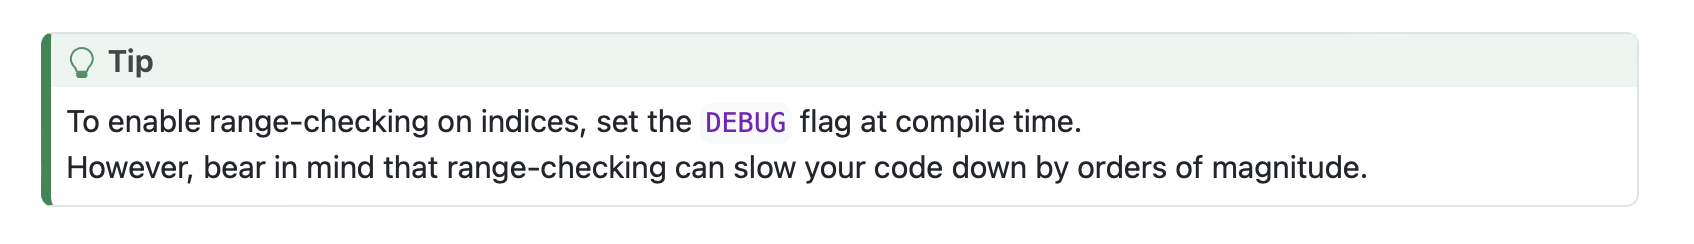
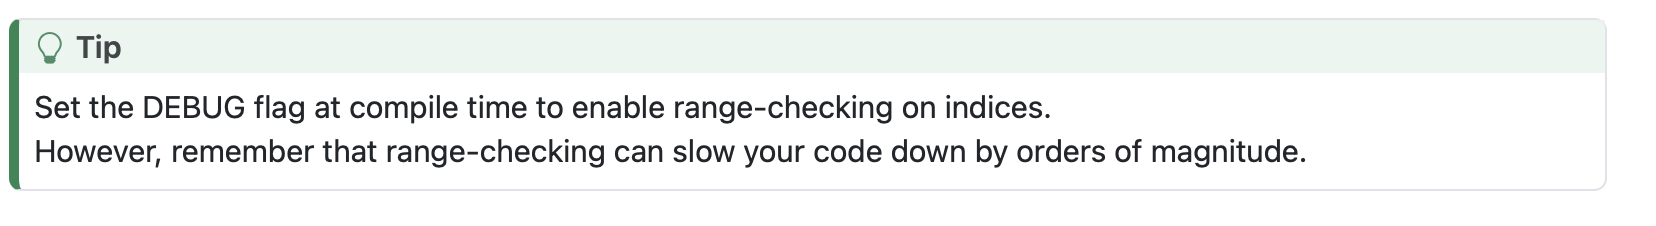
cleaned up the README a bit

Changed region(s): [[0.0, 0.0619, 0.9547, 0.8673]]

diff --git a/README.md b/README.md
@@ -1,24 +1,11 @@
 # Quarto Extension `admonitions`
 
-The `admonitions` filter adds AsciiDoc-style paragraph [admonitions][] to [Quarto][].
+The `admonitions` filter adds simple AsciiDoc-style paragraph [admonitions][] to [Quarto][].
 
-## Installing
+TIP: Set the DEBUG flag at compile time to enable range-checking on indices. \
+       However, remember that range-checking can slow your code down by orders of magnitude.
 
-```bash
-quarto add nessan/admonitions
-```
-
-This will install the extension under the `_extensions` subdirectory.
-You should check in this directory if you're using version control.
-
-Once it is installed, you add the extension as a filter in your `_quarto.yml` file as usual:
-
-```yml
-filters:
-    - admonitions
-```
-
-## Using
+Using
 
 Use the extension to draw attention to a paragraph. Start the first line of the paragraph with one of the following  five labels:
 
@@ -33,26 +20,26 @@ The label must be in uppercase and followed by a colon ( : ).
 For example:
 
 ```markdown
-TIP: To enable range-checking on indices, set the `DEBUG` flag at compile time. \
-     However, bear in mind that range-checking can slow your code down by orders of magnitude.
+TIP: Set the DEBUG flag at compile time to enable range-checking on indices. \
+     However, remember that range-checking can slow your code down by orders of magnitude.
 ```
 
 This will be rendered as:
 
 ![README-tip](assets/README-tip.png)
 
-Each admonition type has its particular icon and the admonition content on the right can contain arbitrary markdown.
+Each admonition type has its particular icon, and the admonition content on the right can contain arbitrary markdown.
 
 ## Admonitions vs. Callouts
 
-Quarto already has [callout blocks][] which are a very similar concept though with a wordier syntax.
+Quarto already has [callout blocks][], which are a very similar concept, though with a wordier syntax.
 
 For example:
 
 ```markdown
 ::: {.callout-tip}
-To enable range-checking on indices, set the `DEBUG` flag at compile time. \
-However, bear in mind that range-checking can slow your code down by orders of magnitude.
+TIP: Set the DEBUG flag at compile time to enable range-checking on indices. \
+     However, remember that range-checking can slow your code down by orders of magnitude.
 :::
 ```
 
@@ -60,9 +47,25 @@ This will be rendered as:
 
 ![README-callout](assets/README-callout.png)
 
-The markup for an admonition is very simple and clean without the need to resort to a custom div.
+The markup for an admonition is simple and clean without resorting to a custom `div`.
 
 Of course, you can mix and match both styles without a problem.
+
+## Installing
+
+The command
+
+```bash
+quarto add nessan/admonitions
+```
+
+installs the extension under the `extensions` subdirectory, which should be checked in if you use version control.
+Once it is installed, you add the extension as a filter in your `_quarto.yml` file as usual:
+
+```yml
+filters:
+    - admonitions
+```
 
 ## Examples
 
@@ -70,13 +73,13 @@ See the `examples` directory for demonstration projects using this extension.
 
 ## Acknowledgements
 
-This extension is inspired by the simplicity of [AsciiDoc][] admonitions and uses the same `CSS` to style the output.
+This extension is inspired by the simplicity of [AsciiDoc][] admonitions and uses similar `CSS` to style the output.
 
-AsciiDoc also has the concept of a *block* admonition which is not replicated in this extension as Quarto's callout blocks work perfectly well for that purpose.
+AsciiDoc also has the concept of a *block* admonition, which is not replicated in this extension, as Quarto's callout blocks work perfectly well for that purpose.
 
 ## TODO
 
-1. It should be possible to customise the filter and, for example, let the user change the icons associated with the various admonitions.
+1. Customising the filter should be possible, such as letting the user change the icons associated with the various admonitions.
 2. The filter only handles `HTML` output.
 
 ## Contact
